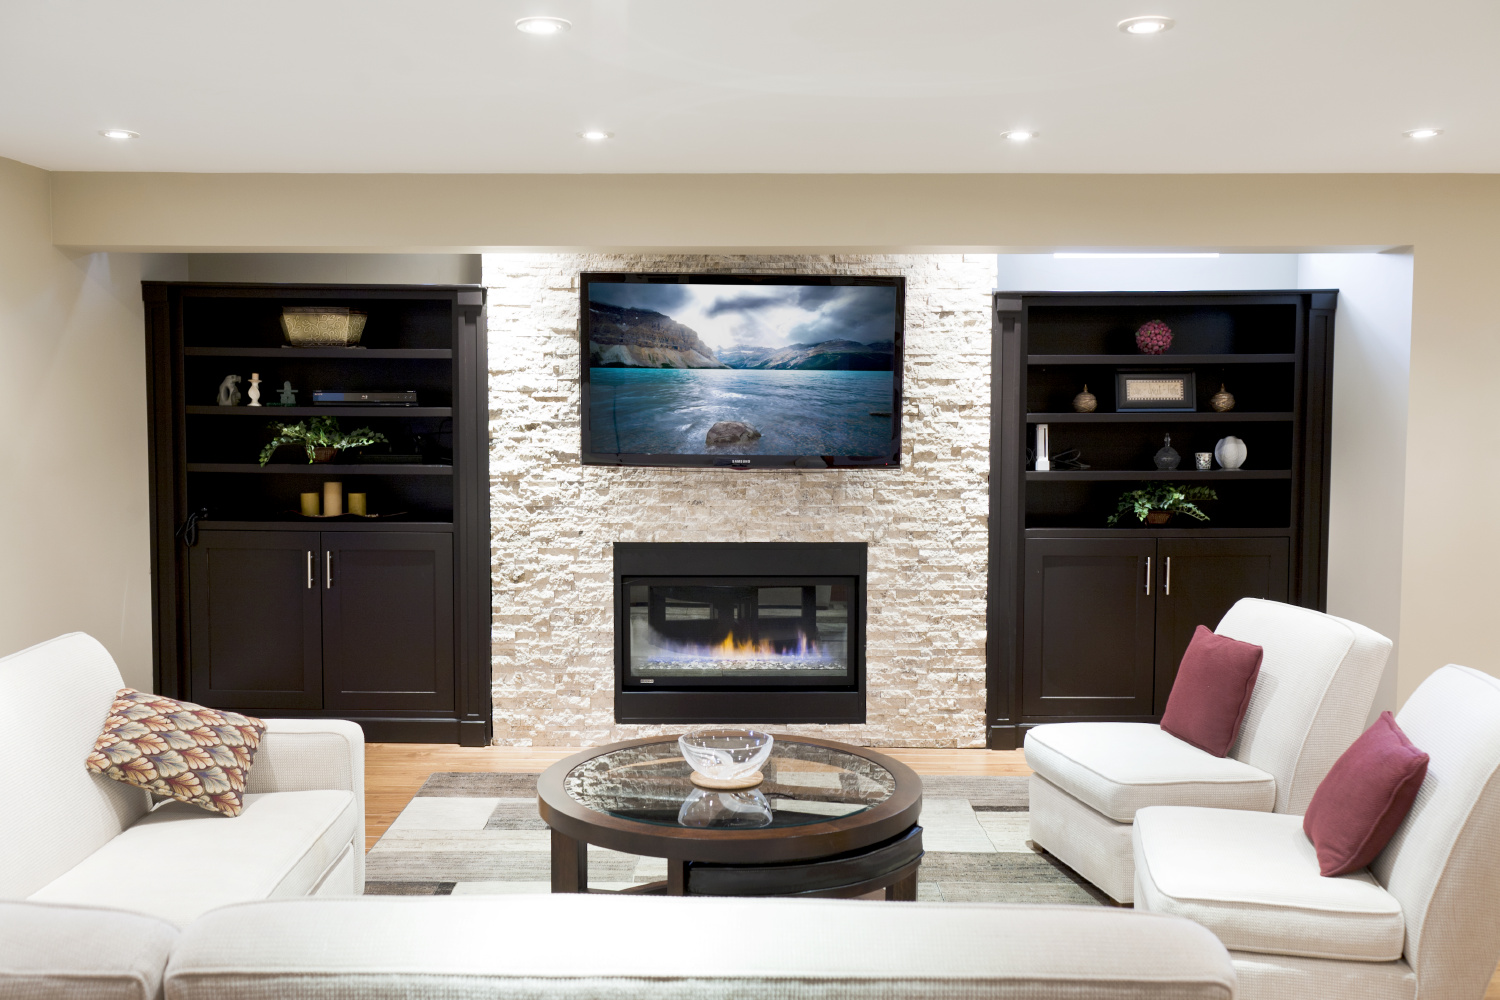
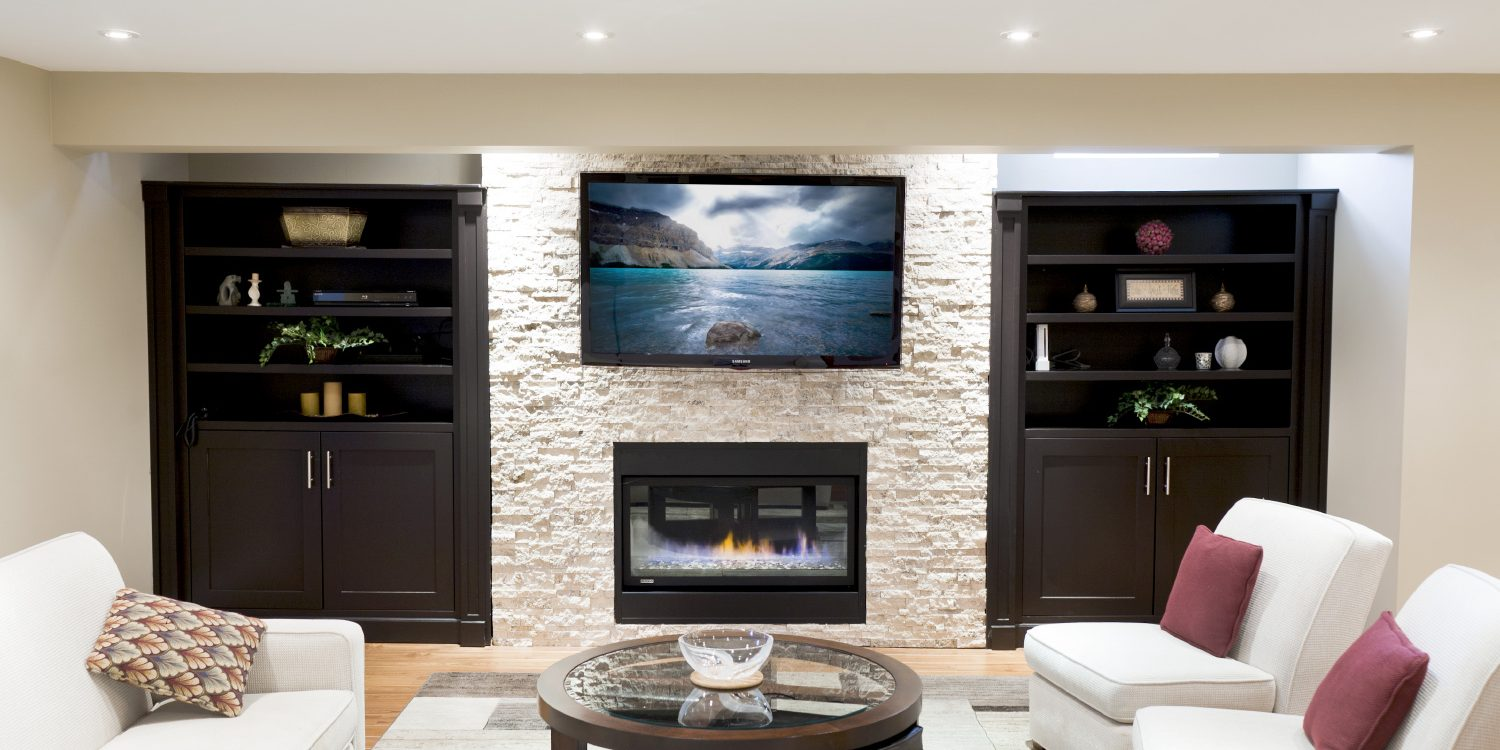
m

diff --git a/lifestylehomes-demos/demo1/index.html b/lifestylehomes-demos/demo1/index.html
@@ -64,20 +64,20 @@
   @media(max-width:900px){ nav.main .wrap{overflow-x:auto;} nav.main a{padding:14px 16px;white-space:nowrap;} }
 
   /* -------- hero slider -------- */
-  .hero-slider{position:relative;height:82vh;min-height:560px;max-height:820px;overflow:hidden;}
+  .hero-slider{position:relative;width:100%;aspect-ratio:2/1;min-height:420px;max-height:700px;overflow:hidden;}
   .hero-slide{position:absolute;inset:0;opacity:0;transition:opacity 1.1s ease;background-size:cover;background-position:center;}
   .hero-slide.active{opacity:1;}
   .hero-slide::after{content:"";position:absolute;inset:0;background:linear-gradient(180deg,rgba(20,17,15,0.06),rgba(20,17,15,0.22));}
   .hero-copy{
-    position:absolute;left:6vw;bottom:12%;z-index:2;max-width:560px;
+    position:absolute;left:6vw;top:50%;z-index:2;max-width:560px;
     background:rgba(20,17,15,0.58);
     backdrop-filter:blur(6px); -webkit-backdrop-filter:blur(6px);
     border:1px solid rgba(255,255,255,0.08);
     border-radius:4px;
     padding:34px 38px;
     box-shadow:0 20px 50px rgba(0,0,0,0.35);
-    transform:scale(0.8);
-    transform-origin:left bottom;
+    transform:translateY(-50%) scale(0.8);
+    transform-origin:left center;
   }
   .hero-copy .cat{font-family:'Playfair Display',serif;font-weight:700;font-size:clamp(38px,6vw,68px);color:var(--gold-soft);line-height:1.05;}
   .hero-copy p{font-size:17.5px;color:rgba(255,255,255,0.88);margin-top:12px;}
@@ -88,7 +88,7 @@
   .hero-arrow{position:absolute;top:50%;transform:translateY(-50%);width:46px;height:46px;border-radius:50%;background:rgba(20,17,15,0.4);border:1px solid rgba(255,255,255,0.28);color:#fff;display:flex;align-items:center;justify-content:center;cursor:pointer;z-index:3;backdrop-filter:blur(4px);font-size:16px;}
   .hero-arrow:hover{background:rgba(20,17,15,0.65);}
   .hero-arrow.prev{left:24px;} .hero-arrow.next{right:24px;}
-  @media(max-width:700px){ .hero-arrow{width:38px;height:38px;} .hero-copy{left:5vw;right:5vw;padding:24px 24px;transform:none;} }
+  @media(max-width:700px){ .hero-arrow{width:38px;height:38px;} .hero-copy{left:5vw;right:5vw;padding:24px 24px;transform:translateY(-50%);} }
 
   /* -------- estimate strip -------- */
   .estimate-strip{background:var(--surface);border-bottom:1px solid var(--line);padding:22px 0;}
